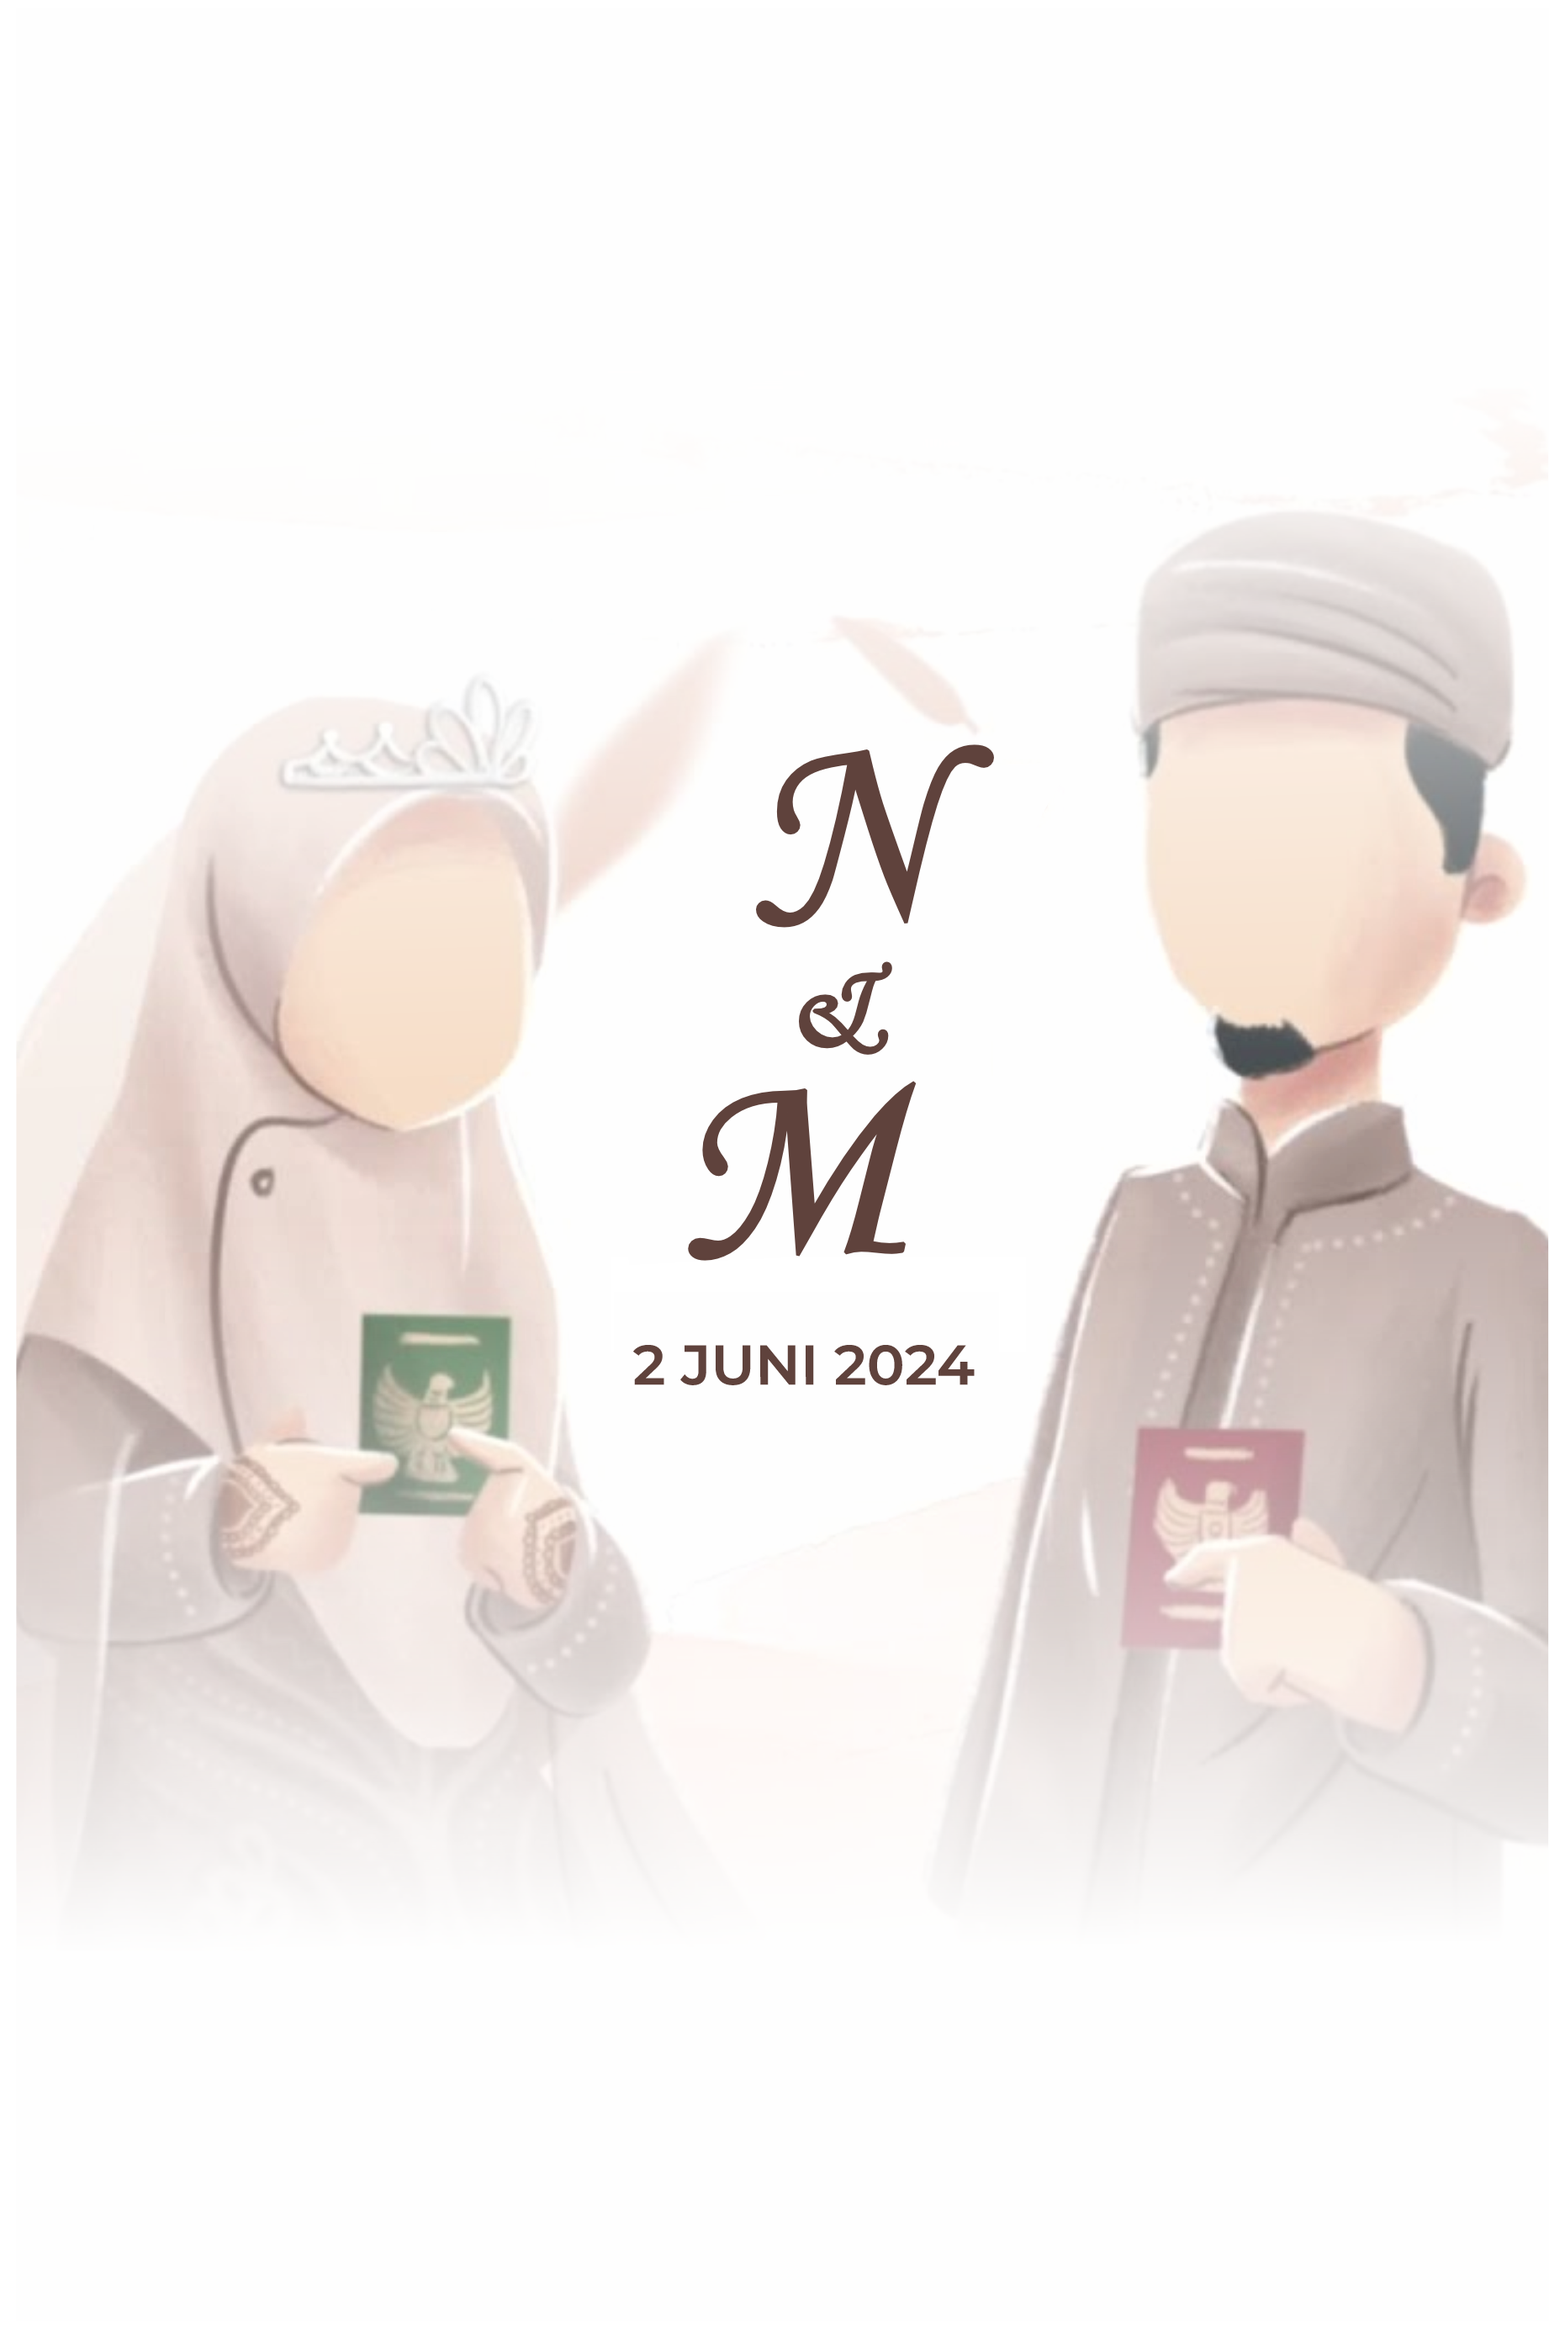
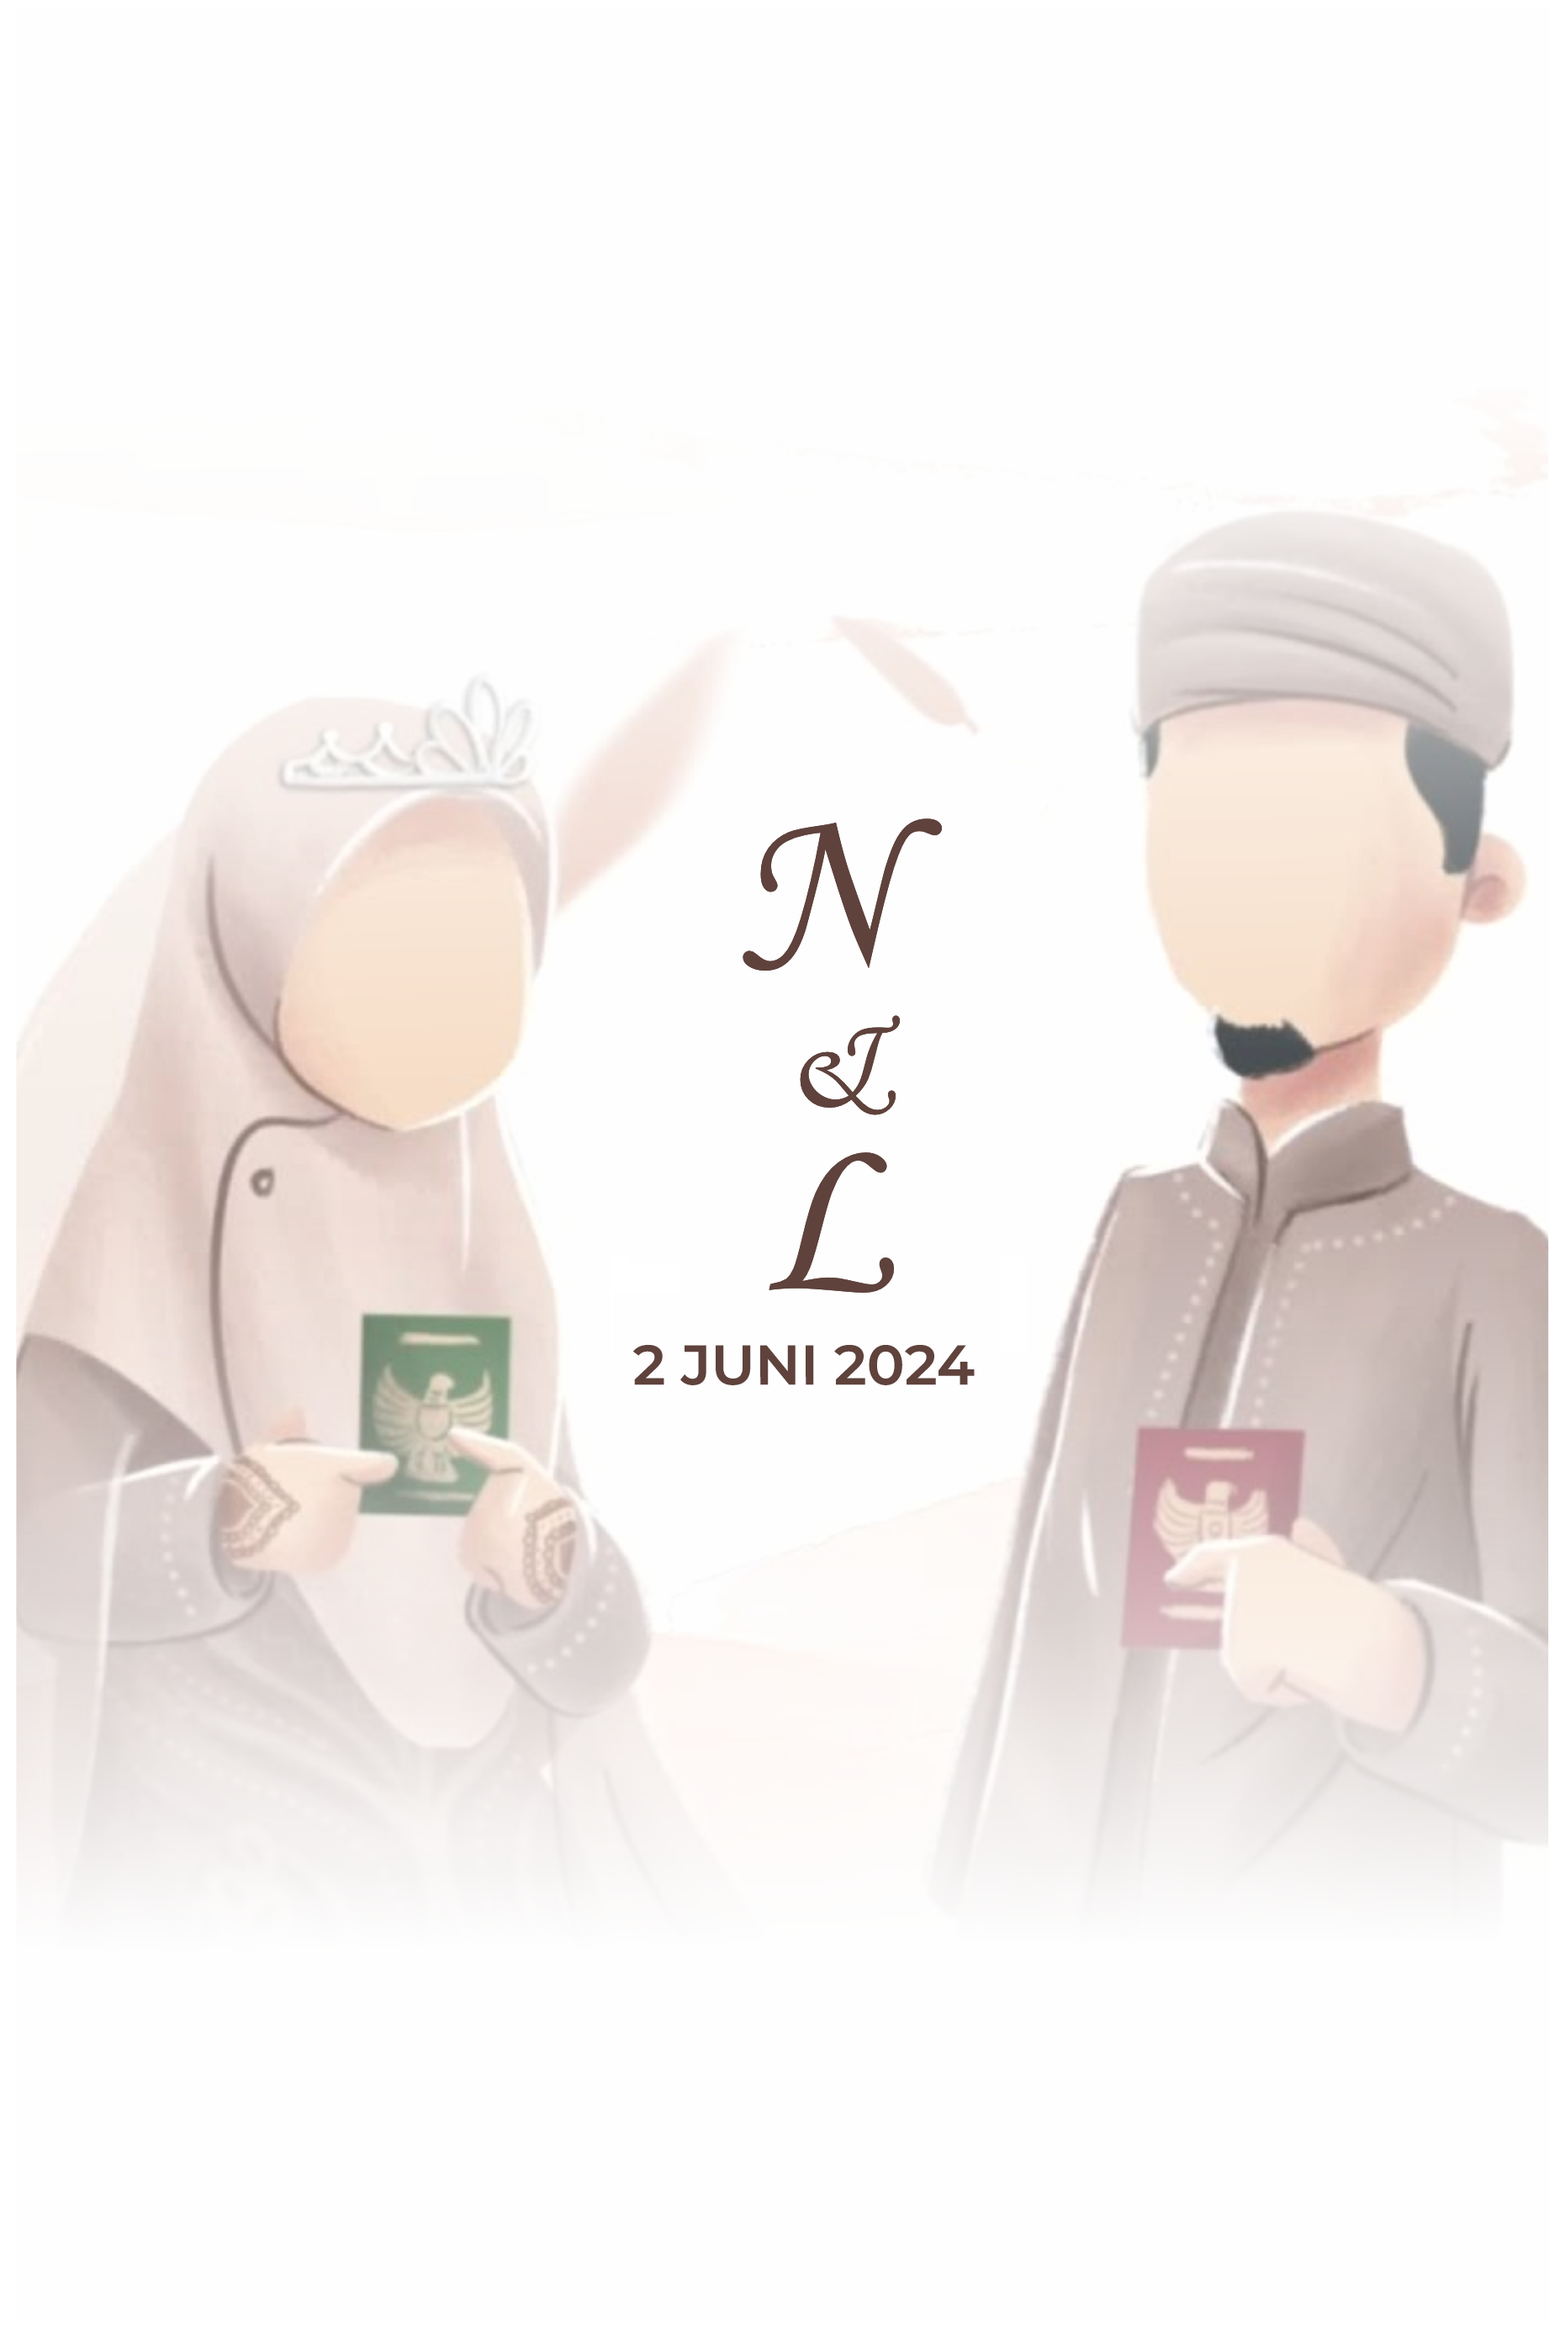
undangan niam

Changed region(s): [[0.4363, 0.3106, 0.6545, 0.559]]

diff --git a/index.html b/index.html
@@ -86,7 +86,7 @@
                 <!-- <h1 class="font-estetik my-4" style="font-size: 1rem;">Ni'am   Wahid Setyawan, S.Kom</h1> -->
 
                 <h1 class="font-estetik my-4" style="font-size: 1.5rem;"> & </h1>
-                <h1 class="font-estetik my-4" style="font-size: 2.5rem;">Maslachah</h1>
+                <h1 class="font-estetik my-4" style="font-size: 2.5rem;">Lachah</h1>
                 <!-- <h1 class="font-estetik my-4" style="font-size: 1.5rem;">Laelatul Fitria Mahardian</h1> -->
 
 
@@ -173,7 +173,7 @@
                 <div class="text-center">
                     <h1 class="font-estetik py-3" style="font-size: 2rem;">Waktu Menuju Acara</h1>
                     <div class="border rounded-pill shadow py-2 px-4 mx-2 mb-4">
-                        <div class="row justify-content-center" data-waktu="2024-04-22 00:00:00" id="tampilan-waktu">
+                        <div class="row justify-content-center" data-waktu="2024-05-05 00:00:00" id="tampilan-waktu">
                             <div class="col-3 p-1">
                                 <h2 class="d-inline m-0 p-0" id="hari">0</h2><small class="ms-1 me-0 my-0 p-0 d-inline">Hari</small>
                             </div>
